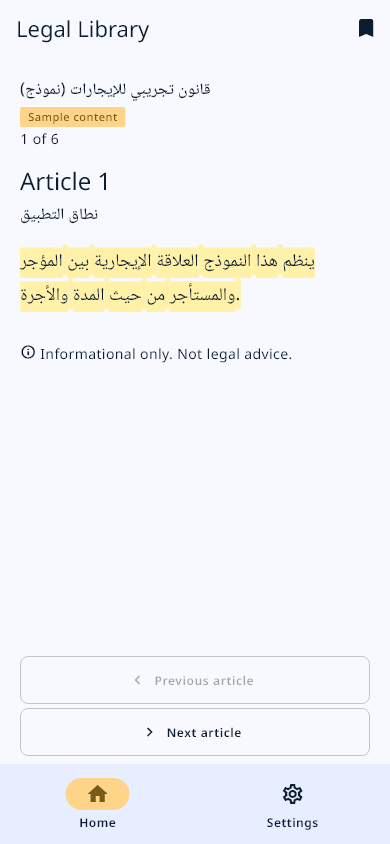
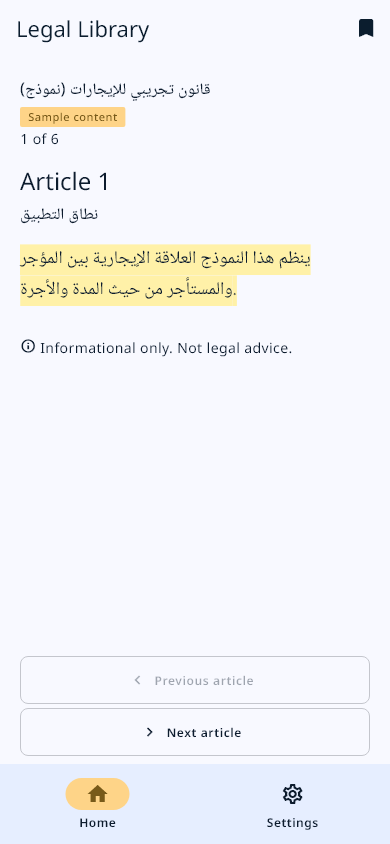
fix(library): continuous highlight spans; ship arm64 demo APK
Two review findings from the portfolio pass. The article body is Arabic source text rendered under the Latin primary font; fallback runs broke at spaces, so one highlight painted as separate per-word boxes. Pinning NotoNaskhArabic as the body family makes the highlight one continuous span (verified in all three regenerated reader screenshots). The release asset is now the arm64-v8a split (111.7 MB instead of 240 MB, same debug signing and full demo behaviour); the old universal APK was removed and the notes/hash updated.

Changed region(s): [[0.0308, 0.2773, 0.8308, 0.3697], [0.0308, 0.4005, 0.7385, 0.4313]]

diff --git a/lib/features/library/presentation/library_article_screen.dart b/lib/features/library/presentation/library_article_screen.dart
@@ -292,7 +292,17 @@ class _ArticleReader extends StatelessWidget {
                       HighlightedBody(
                         body: detail.article.bodyAr,
                         highlights: state.drawableHighlights,
-                        textStyle: text.bodyLarge?.copyWith(height: 1.7),
+                        // The Library corpus is Arabic source text even when
+                        // the UI locale is English. Using the Latin family as
+                        // the primary font splits the span into per-word
+                        // fallback runs, which makes a single highlight paint
+                        // as separate boxes. Pin the Arabic family so the
+                        // highlight is one continuous span.
+                        textStyle: text.bodyLarge?.copyWith(
+                          height: 1.7,
+                          fontFamily: 'NotoNaskhArabic',
+                          fontFamilyFallback: const <String>['NotoSans'],
+                        ),
                         onSelectionHighlight: (int start, int end) =>
                             _createHighlight(context, start, end),
                         onHighlightTapped: (LegalHighlight highlight) =>

diff --git a/docs/release_notes_v1.0.0-portfolio.md b/docs/release_notes_v1.0.0-portfolio.md
@@ -13,19 +13,19 @@ reading history. English, Arabic (RTL) and Turkish are supported.
 
 ## Install the demo APK
 
-Asset: `LegalHub-development-demo.apk` (development flavor, debug-signed).
+Asset: `LegalHub-development-demo-arm64.apk` (development flavor, debug-signed, arm64-v8a only).
 
 ```bash
-adb install -r LegalHub-development-demo.apk
+adb install -r LegalHub-development-demo-arm64.apk
 ```
 
-Minimum Android version is set by the project's `minSdk` (Android 21+). The
-APK carries `arm64-v8a`, `armeabi-v7a` and `x86_64` libraries, so it runs on
-phones and on most x86 emulators.
+Minimum Android version is `minSdk` 24 (Android 7.0). This is the arm64-v8a
+split: it installs on virtually every current Android phone. Use `flutter run`
+from source for an emulator.
 
[1 lines of base64/hex data omitted]
-- Size: 240,250,909 bytes
-- Built with: `flutter build apk --debug --flavor development -t lib/main_development.dart`
[1 lines of base64/hex data omitted]
+- Size: 111,657,495 bytes
+- Built with: `flutter build apk --debug --flavor development -t lib/main_development.dart --split-per-abi`
 - Signing: Android debug key only. **No store key, no real signing credential.**
 
 ## Demo versus real
